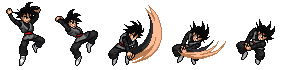
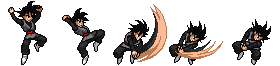
Goku Black: re-slice idle + attacks (fix clipping/jitter), commit audit shots
Playtest feedback: idle + many attack sprites looked bad; run confirmed fine (untouched).

TASK 1 — screenshots now COMMITTED (harness/shots/ is gitignored): force-added all
Goku Black harness shots (git add -f, same as Toji) — GB_*.png (Stage 1), GBA_*.png
(visual audit), SLICE_black_goku_*.png (alpha-gutter boundary overlays). Going forward,
all Goku Black harness screenshots are force-added so they persist for review.

TASK 3 — RE-SLICE IDLE: alpha-gutter overlay CONFIRMED black_goku_idle.png is TWO
concatenated variants (frames 0-3 = arms-down sway; 4-7 = fists-up ready, split by a
~51px gutter). The bug was not the variant split (Stage 1 already used only 0-3) but a
DRIFTING/JITTERY uniform slice: variant-A frames are non-uniformly pitched (48/55/55px),
so a 57px cell left-clipped frame 3 and jittered the sway. Re-sliced variant A into a
clean 4×31×68 strip (content-centered, feet-aligned). Idle: 4×57 → 4×31.

TASK 4 — RE-SLICE ATTACKS: overlays showed all 3 wired attack sheets left-clip their
wide strike frames (non-uniform pitch: narrow windup vs wide punch/kick/slash). Re-sliced
each to uniform, feet-aligned cells:
  light  front_attack  6×66 → 6×65×54  (extended-punch frames no longer clipped)
  up     kick_attack   9×77 → 9×65×56  (spin-kick arc frames no longer clipped)
  air    air_attack    5×58 → 5×56×66  (slash-arc frames no longer clipped); down_air reuses it
Confirmed base_attack = a fists-up STANCE (near-static), not an attack → front_attack was
[…]

diff --git a/characters.js b/characters.js
@@ -1622,7 +1622,7 @@ const gokuBlack = {
   // (Sasuke 116 / Naruto 118 / Gojo 112). anchorY values start at 0 and are screenshot-tuned.
   spriteScale: 1.7,
   animationData: {
-    idle:      { frames: 4, width: 57, height: 69, speed: 6, anchorY: 0, sheet: "./black_goku_idle.png" },        // 8-frame sheet = two idle variants; wire the first 4 (asset map §3.1)
+    idle:      { frames: 4, width: 31, height: 68, speed: 6, anchorY: 0, sheet: "./black_goku_idle.png" },        // RE-SLICED: variant A (arms-down sway), content-centered + feet-aligned (was a drifting/jittery uniform slice of the 2-variant sheet; variant B fists-up frames dropped)
     walk:      { frames: 4, width: 66, height: 55, speed: 5, anchorY: 0, sheet: "./black_goku_run.png" },
     run:       { frames: 4, width: 66, height: 55, speed: 4, anchorY: 0, sheet: "./black_goku_run.png" },
     dash:      { frames: 2, width: 88, height: 47, speed: 5, anchorY: 0, sheet: "./black_goku_dash.png" },
@@ -1631,10 +1631,10 @@ const gokuBlack = {
     hurt:      { frames: 7, width: 70, height: 78, speed: 6, anchorY: 0, sheet: "./black_goku_hit.png" },
     knockdown: { frames: 6, width: 76, height: 71, speed: 6, anchorY: 0, sheet: "./black_goku_get_up.png" },       // get-up sheet → knockdown slot
     guard:     { frames: 3, width: 52, height: 61, speed: 6, anchorY: 0, sheet: "./black_goku_block.png" },
-    light:     { frames: 6, width: 66, height: 57, speed: 3, anchorY: 0, sheet: "./black_goku_front_attack.png" },
-    up:        { frames: 9, width: 77, height: 64, speed: 3, anchorY: 0, sheet: "./black_goku_kick_attack.png" },
-    air:       { frames: 5, width: 58, height: 70, speed: 4, anchorY: 0, sheet: "./black_goku_air_attack.png" },
-    down_air:  { frames: 5, width: 58, height: 70, speed: 4, anchorY: 0, sheet: "./black_goku_air_attack.png" }    // reuses air_attack (base down-air GAP)
+    light:     { frames: 6, width: 65, height: 54, speed: 3, anchorY: 0, sheet: "./black_goku_front_attack.png" },  // RE-SLICED uniform (wide punch frames no longer left-clipped)
+    up:        { frames: 9, width: 65, height: 56, speed: 3, anchorY: 0, sheet: "./black_goku_kick_attack.png" },   // RE-SLICED uniform (spin-kick arc frames no longer clipped)
+    air:       { frames: 5, width: 56, height: 66, speed: 4, anchorY: 0, sheet: "./black_goku_air_attack.png" },    // RE-SLICED uniform (slash-arc frames no longer clipped)
+    down_air:  { frames: 5, width: 56, height: 66, speed: 4, anchorY: 0, sheet: "./black_goku_air_attack.png" }     // reuses air_attack (base down-air GAP)
   }
 }
 
